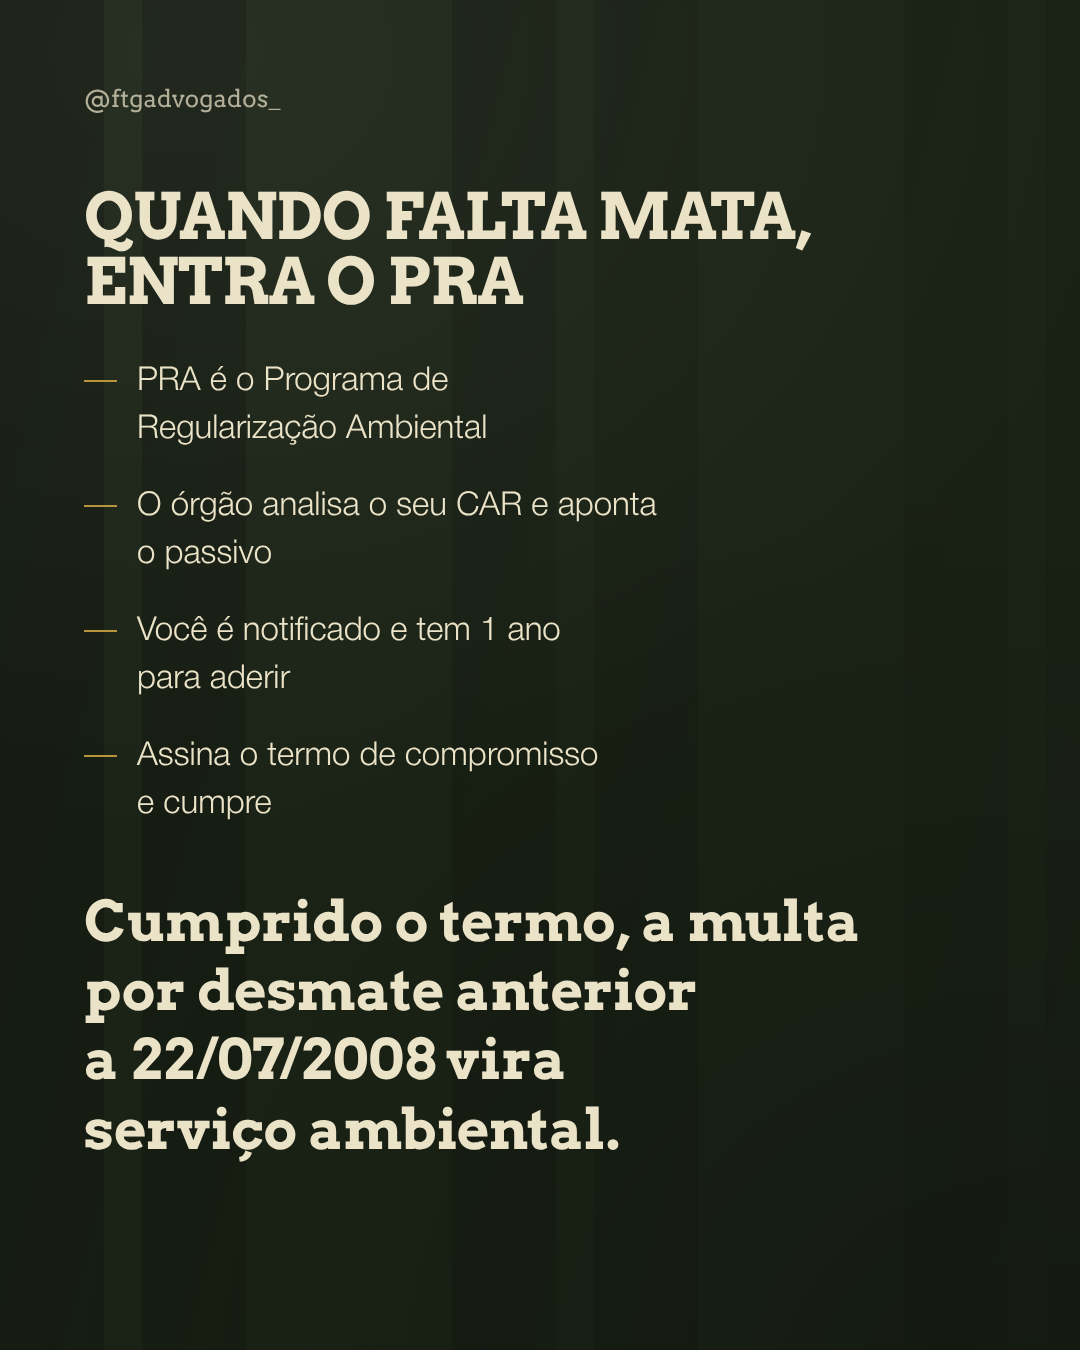
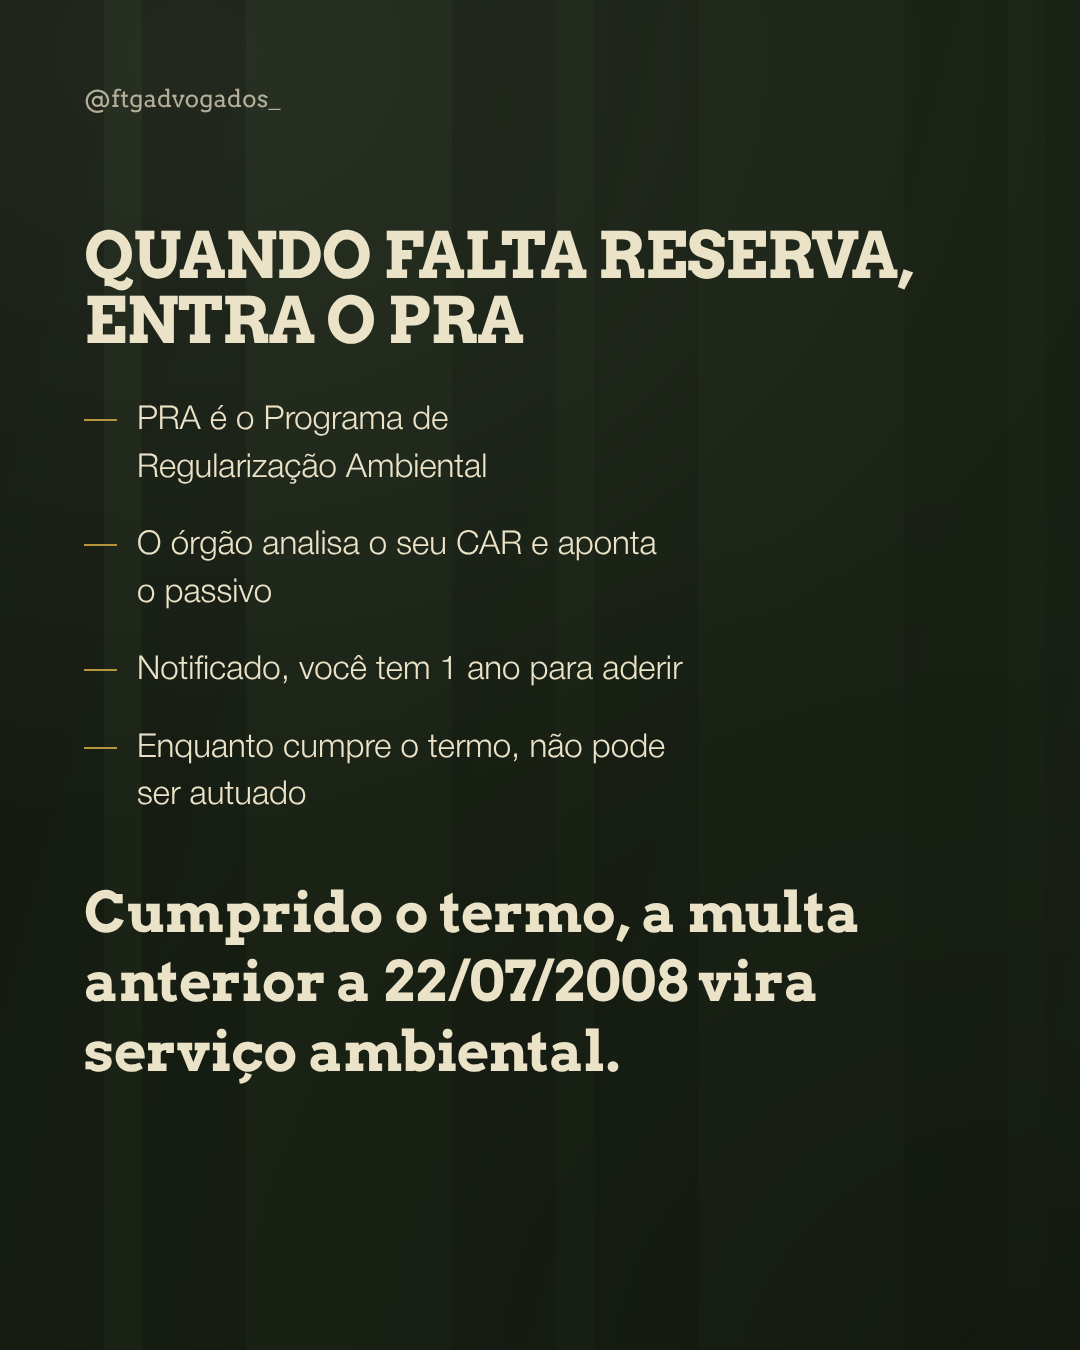
Revisão da Dra. Elisa no Reserva Legal, na legenda e na arte
APP na conta da RL com os três requisitos do art. 15, medição da borda
do leito regular, vegetação nativa em vez de mata, e a distinção entre
suspensão das sanções e conversão da multa.

Claude-Session: https://claude.ai/code/session_01PNm9HeejNLCDTQ5J6fF2k9

Changed region(s): [[0.0611, 0.1244, 0.8556, 0.6222], [0.0611, 0.6533, 0.7944, 0.8711], [0.5806, 0.4667, 0.6111, 0.4978]]

diff --git a/docs/gorayeb/diario.md b/docs/gorayeb/diario.md
@@ -868,3 +868,29 @@ entrega.
 
 Decisão do Victor: a produção pode usar foto do Pinterest com pessoas, e a peça
 vai pra aprovação do cliente antes de sair. Quem aprova a foto é o escritório.
+
+**06/11/2026 · revisão da Dra. Elisa no Reserva Legal, e o que ela pegou na arte**
+
+O Victor mandou a revisão como se fosse só de legenda. **Três dos cinco pontos
+estavam também na arte**, e a peça sai hoje. Corrigidos os dois.
+
+1. **APP na conta da Reserva Legal (art. 15).** Faltavam dois dos três requisitos.
+   Agora: conservada **ou em recuperação**, com o **pedido feito no CAR**, e sem
+   abrir área nova. Estava na tela 2 e na legenda.
+2. **Onde se mede a APP de rio (art. 4º, I).** É da **borda do leito regular**, não
+   da margem que se vê na cheia nem da cerca. Entrou no rótulo da figura da tela 3.
+3. **"30 metros de mata" virou "30 metros de vegetação nativa".** No Cerrado a
+   faixa pode ser campo ou vereda. A legenda ganhou um parágrafo explicando a
+   troca de palavra, porque a diferença muda o que o produtor acha que pode cortar.
+4. **PRA:** acrescentado "desde que o CAR tenha sido feito no prazo da lei".
+5. **A multa não "vira" serviço ambiental de cara.** Enquanto o termo é cumprido,
+   as sanções ficam **suspensas** e o produtor não pode ser autuado. A conversão
+   só vem **depois de cumprido**. Virou item próprio na tela 8 e dois parágrafos
+   na legenda.
+
+Confirmados por ela e mantidos: 20% e 35%, a faixa de 30 a 500 m, a vereda com
+50 m do brejo, o marco de 22/07/2008, a dispensa de averbação e os três caminhos
+do art. 66.
+
+**Lição:** revisão de cliente que chega "só de legenda" tem que ser conferida
+contra a arte, tela por tela. O fato é o mesmo nos dois lugares.
